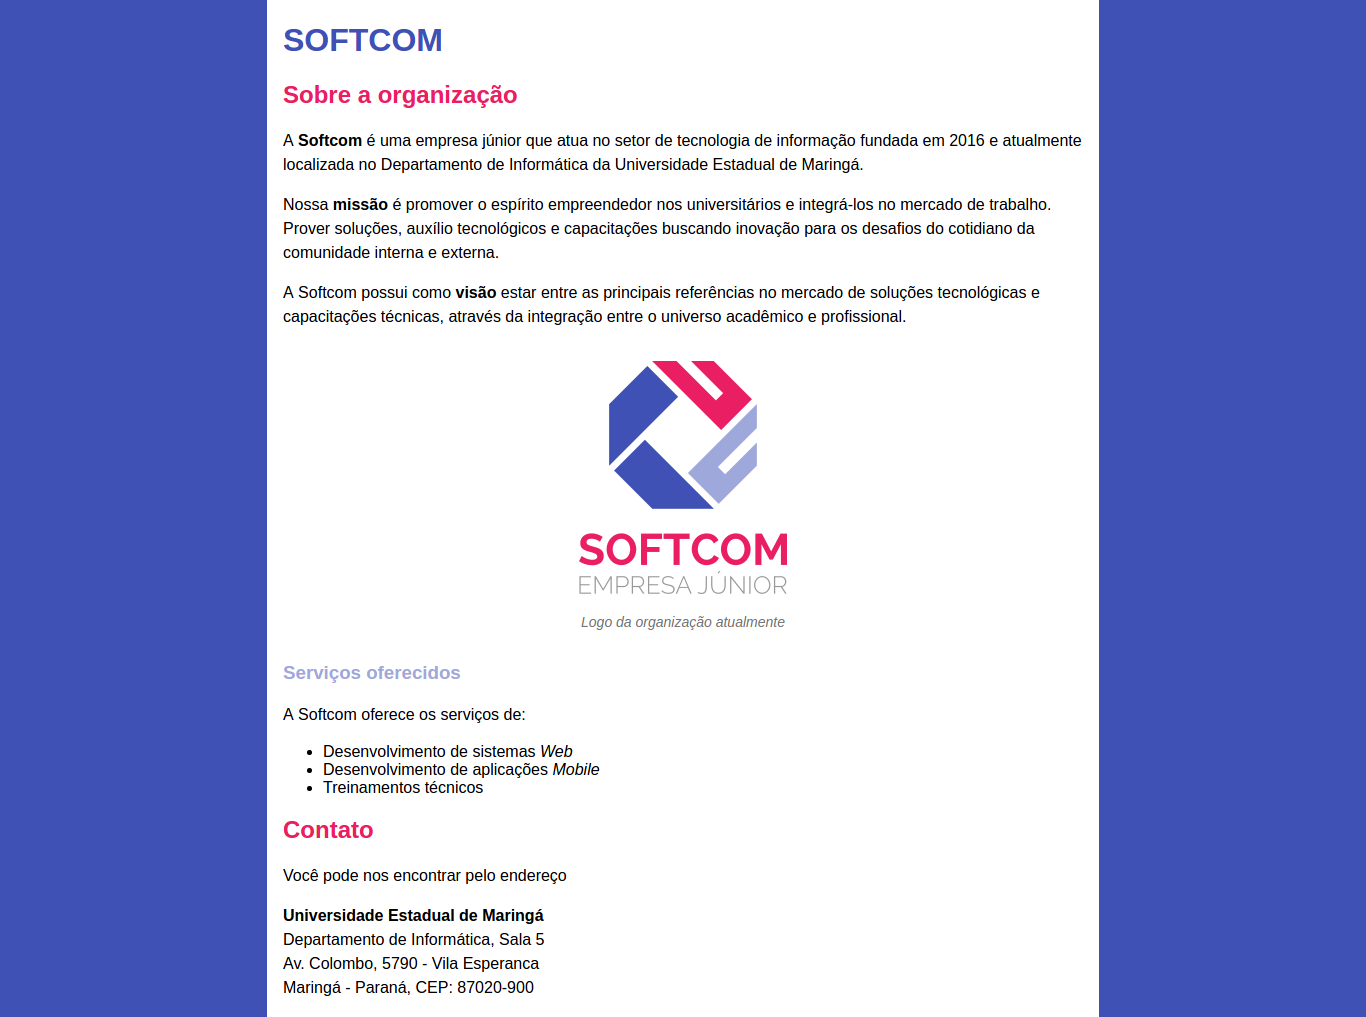
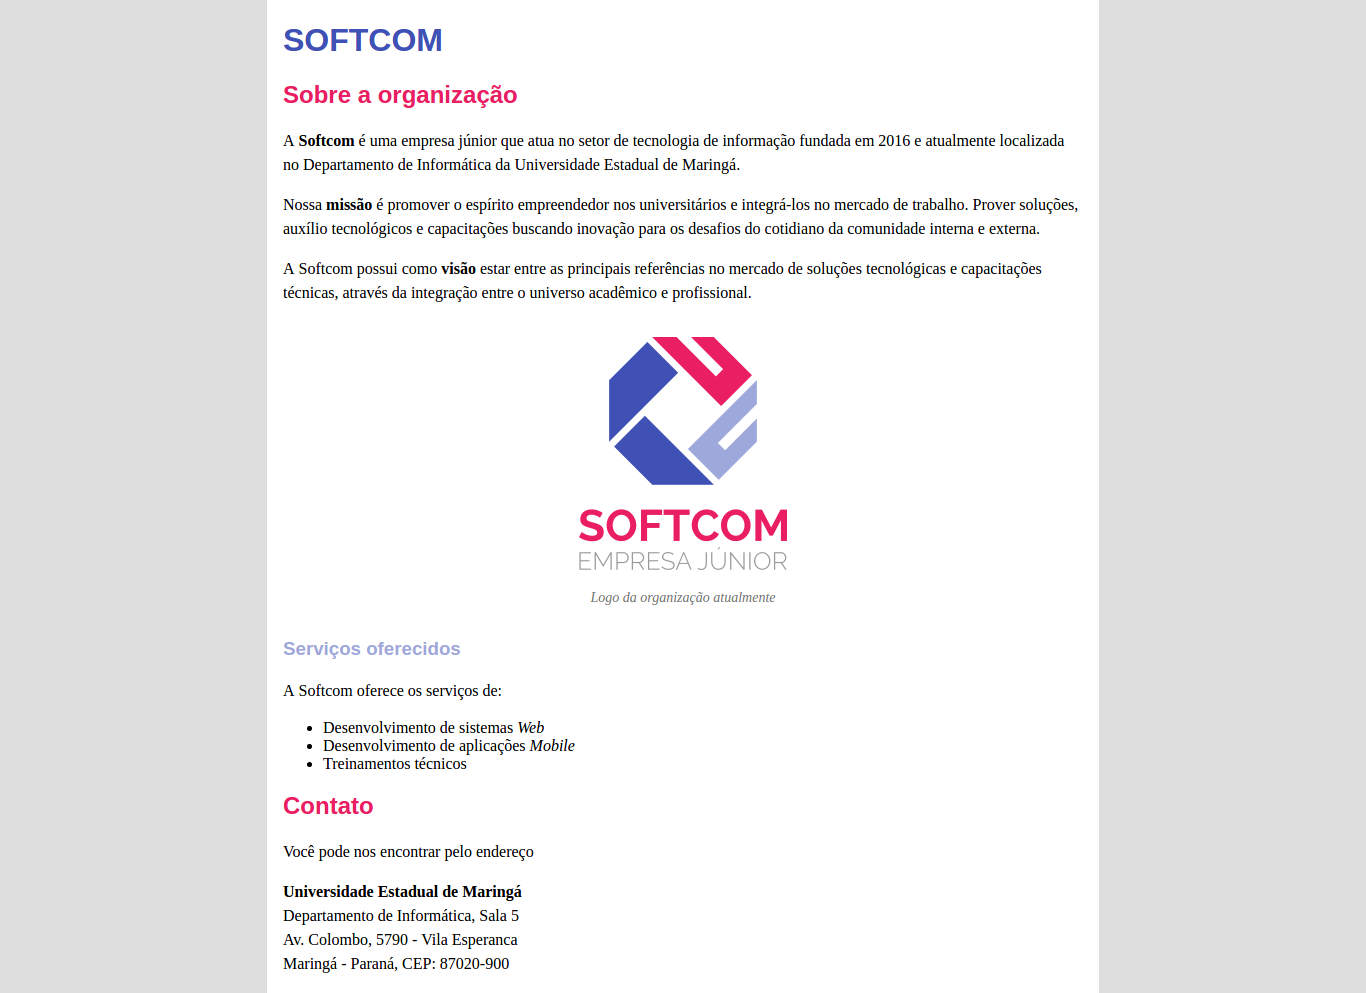
Refactor text

diff --git a/html-css/exercise-2-completed/index.html b/html-css/exercise-2-completed/index.html
@@ -3,48 +3,7 @@
   <head>
     <meta charset="utf-8">
     <title>Softcom</title>
-    <style>
-      :root {
-        background-color: #3F51B5;
-      }
-
-      body {
-        max-width: 800px;
-        margin: 0 auto;
-        background-color: #fff;
-        font-family: sans-serif;
-        padding: 1px 16px;
-      }
-
-      h1 {
-        text-transform: uppercase;
-        color: #3F51B5;
-      }
-
-      h2 {
-        color: #E91E63
-      }
-
-      h3 {
-        color: #9FA8DA;
-      }
-
-      p {
-        line-height: 1.5em;
-      }
-
-      figure {
-        margin: 32px 0;
-        text-align: center;
-      }
-
-      figcaption {
-        margin-top: 16px;
-        font-size: 14px;
-        font-style: italic;
-        color: #777;
-      }
-    </style>
+    <link rel="stylesheet" href="styles.css"/>
   </head>
   <body>
     <h1>Softcom</h1>

diff --git a/html-css/2-elements.md b/html-css/2-elements.md
@@ -1,6 +1,6 @@
 # Elementos HTML
 
-O HTML é composto de várias *tags* HTML, formalmente chamados de **Elementos
+O HTML é composto de várias _tags_, formalmente chamados de **Elementos
 HTML**. Existem vários elementos HTML, cada um com uma semântica bem definida
 para organizar a informação do documento.
 
@@ -8,7 +8,7 @@ para organizar a informação do documento.
 ## Cabeçalhos
 
 Quando queremos informar que um trecho do texto é um cabeçalho do documento,
-seção, etc; utilizamos as *tags heading* para sua marcação. Veja:
+seção, etc; utilizamos as **_tags heading_** para sua marcação. Veja:
 
 ```html
 <h1>Softcom JR</h1>
@@ -17,7 +17,7 @@ seção, etc; utilizamos as *tags heading* para sua marcação. Veja:
 <h2>Contato</h2>
 ```
 
-As *tags heading* vão desde o `h1` até o `h6`, indicando ordem hierárquica:
+As _tags heading_ vão desde o `h1` até o `h6`, indicando ordem hierárquica:
 sendo `h1` o título de maior nível hieráquico e `h6` o de menor nível
 hieráquico. Utiliza-se o `h1` para o título do documento ou da página, `h2`
 para subtítulos ou títulos de seções do documento, e assim por diante.
@@ -25,7 +25,7 @@ para subtítulos ou títulos de seções do documento, e assim por diante.
 
 ## Parágrafos
 
-Quando exibimos corpo de texto na página, é recomendado utilizar a *tag*
+Quando exibimos corpo de texto na página, é recomendado utilizar a _tags_
 **parágrafo** `p`. Veja:
 
 ```html
@@ -44,21 +44,21 @@ Quando exibimos corpo de texto na página, é recomendado utilizar a *tag*
 Note que quebras de linhas em nosso texto não refletem em quebras de linha
 na página exibida ao usuário. Quebras de linha se tornam espaços quando
 renderizados, múltiplos espaços também são renderizados como um só espaço. Caso
-você queira quebrar a linha de um parágrafo, use a tag `<br/>`.
+você queira quebrar a linha de um parágrafo, use a _tag_ `<br/>`.
 
 
 
 ## Mudança de ênfase
 
-Mudanças de ênfase no texto podem ser feitas com diversas *tags*. Veja:
+Mudanças de ênfase no texto podem ser feitas com diversas _tags_. Veja:
 
-* A *tag* `strong` deixa um trecho "mais forte" — renderizado por padrão como
+* A _tags_ `strong` deixa um trecho "mais forte" — renderizado por padrão como
   negrito — normalmente indicando um trecho de importância ao contexto do
   documento;
-* A *tag* `em` indica um trecho com "ênfase" — renderizado por padrão com
+* A _tags_ `em` indica um trecho com "ênfase" — renderizado por padrão com
   itálico — normalmente indicando um trecho com pronúncia diferenciada, como
   termos estrangeiros.
-* A *tag* `small` indica um trecho com menor relevância — renderizado por
+* A _tags_ `small` indica um trecho com menor relevância — renderizado por
   padrão com uma fonte menor — normalmente indicando um comentário feito
   no documento;
 
@@ -81,10 +81,10 @@ Veja um exemplo:
 
 ## Listas
 
-Listas em HTML são criadas com duas tags com propriedades distintas. Uma lista
+Listas em HTML são criadas com duas _tags_ com propriedades distintas. Uma lista
 ordenada, ou seja, que contém uma ordem defina por índices, pode ser criada
-com a tag `ol` e normalmente renderiza os itens com o índice a frente. Cada
-item da lista deve ser definido com a tag `li`, veja:
+com a _tag_ `ol` e normalmente renderiza os itens com o índice a frente. Cada
+item da lista deve ser definido com a _tag_ `li`, veja:
 
 ```html
 <ol>
@@ -94,7 +94,7 @@ item da lista deve ser definido com a tag `li`, veja:
 </ol>
 ```
 
-Listas sem ordenação definida podem ser criadas com a tag `ul` e são
+Listas sem ordenação definida podem ser criadas com a _tag_ `ul` e são
 normalmente renderizadas como tópicos. Cada item novamente deve ser definido
 com um `li`. Veja:
 
@@ -108,7 +108,7 @@ com um `li`. Veja:
 
 ## Imagens
 
-Para adicionar imagens em nosso documento, utilizamos a *tag* `img`. É
+Para adicionar imagens em nosso documento, utilizamos a _tags_ `img`. É
 obrigatório a utilização de dois atributos para que a imagem seja exibida:
 `src` e `alt`. O atributo `src` indica o local da imagem, já o `alt` indica
 um texto alternativo para a imagem caso ela não possa ser exibida. Veja:
@@ -132,7 +132,7 @@ um texto alternativo para a imagem caso ela não possa ser exibida. Veja:
 ```
 
 Caso queremos adicionar uma legenda imagem, é necessário a utilização de outras
-*tags* auxiliares: `figure` e a `figcaption`, que indicam respectivamente a
+_tags_ auxiliares: `figure` e a `figcaption`, que indicam respectivamente a
 definição de uma figura e de uma legenda. Veja:
 
 ```html
@@ -142,14 +142,17 @@ definição de uma figura e de uma legenda. Veja:
 </figure>
 ```
 
+---
+
 ## Atividades
 
-1. Copie a pasta "exercise-2" para o seu computador;
+1. Copie a pasta `exercise-2` para o seu computador;
 2. Crie um novo arquivo texto chamado "index.html";
-3. Crie um documento HTML básico, como visto anteriormente, e abra-o no
-   em um navegador da sua preferência;
-4. Abra a imagem "template.png" e crie uma página HTML no documento
-   "index.html" que siga o modelo proposto pela imagem:
-   * No elemento `head`, crie a tag `<style></style>`, e copie o conteúdo
-     do arquivo "styles.css" para o conteúdo dessa tag;
-   * O conteúdo pode ser copiado do arquivo "content.txt";
+3. Crie um documento HTML básico, como visto anteriormente, salve-o com o nome
+   `index.html` e abra-o no em um navegador da sua preferência;
+4. No elemento `head`, adicione a seguinte _tag_:
+   `<link rel="stylesheet" href="styles.css" />`;
+4. Abra a imagem `template.png`;
+5. No arquivo `index.html`, recrie a página dada pela imagem. O conteúdo pode
+   ser copiado do arquivo "content.txt". Para ver o resultado do seu trabalho,
+   atualize a página aberta no navegador com <kbd>F5</kbd>;

diff --git a/html-css/1-introduction.md b/html-css/1-introduction.md
@@ -1,8 +1,9 @@
 # Introdução
 
-A linguagem de marcação HTML (*HyperText Markup Language*) é a linguagem padrão
-para a exibição de informação na Web, que juntamente com o CSS (*Cascading
-Style Sheets*) e o JavaScript, constituem a base tecnológica da plataforma.
+A linguagem de marcação HTML (*HyperText Markup Language*) é uma linguagem
+de marcação para a estruração de documentos de hipertexto. O HTML, juntamente
+com o CSS (*Cascading Style Sheets*) e o JavaScript, constituem a base
+tecnológica da plataforma *Web*.
 
 De forma bastante simples, podemos estabelecer a responsabilidade de cada
 tecnologia como:
